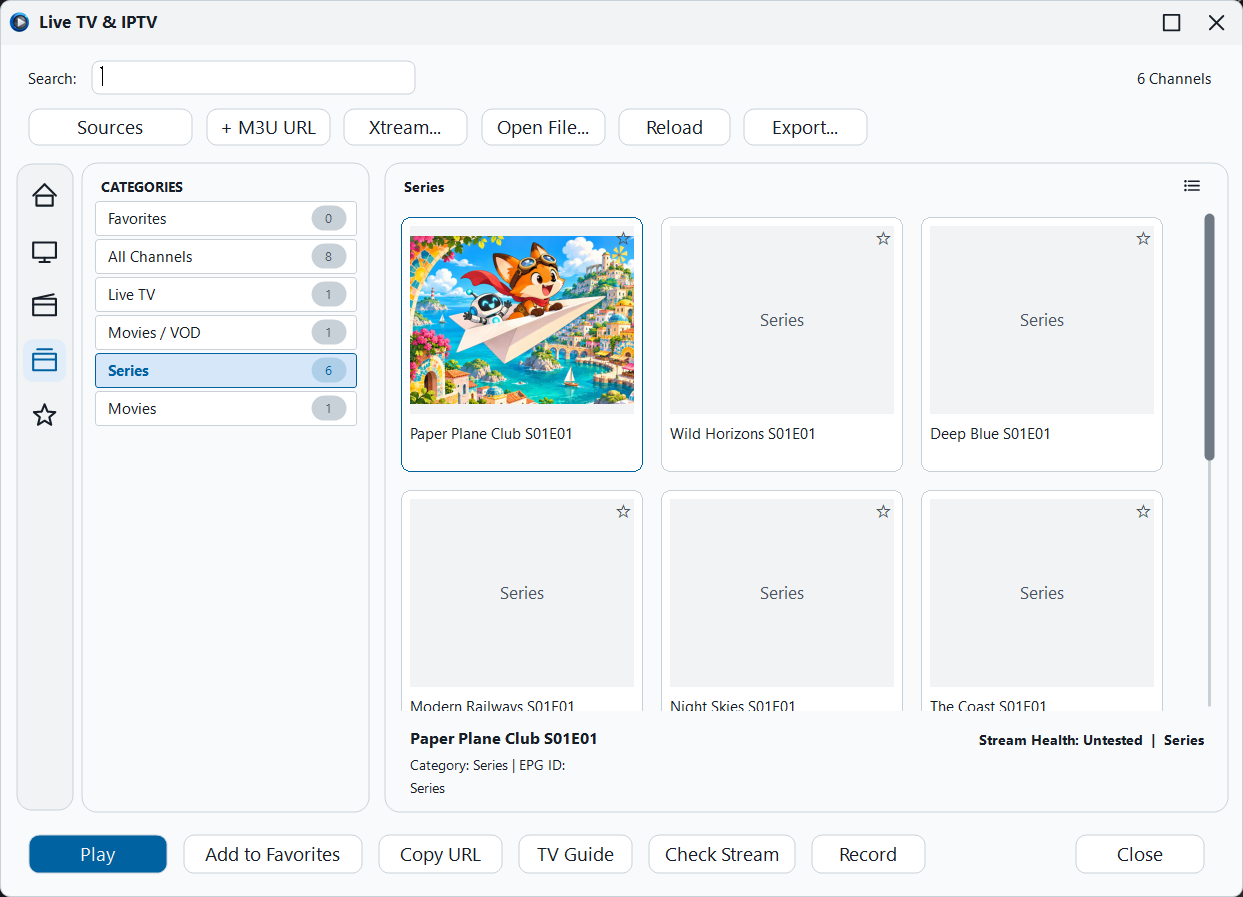
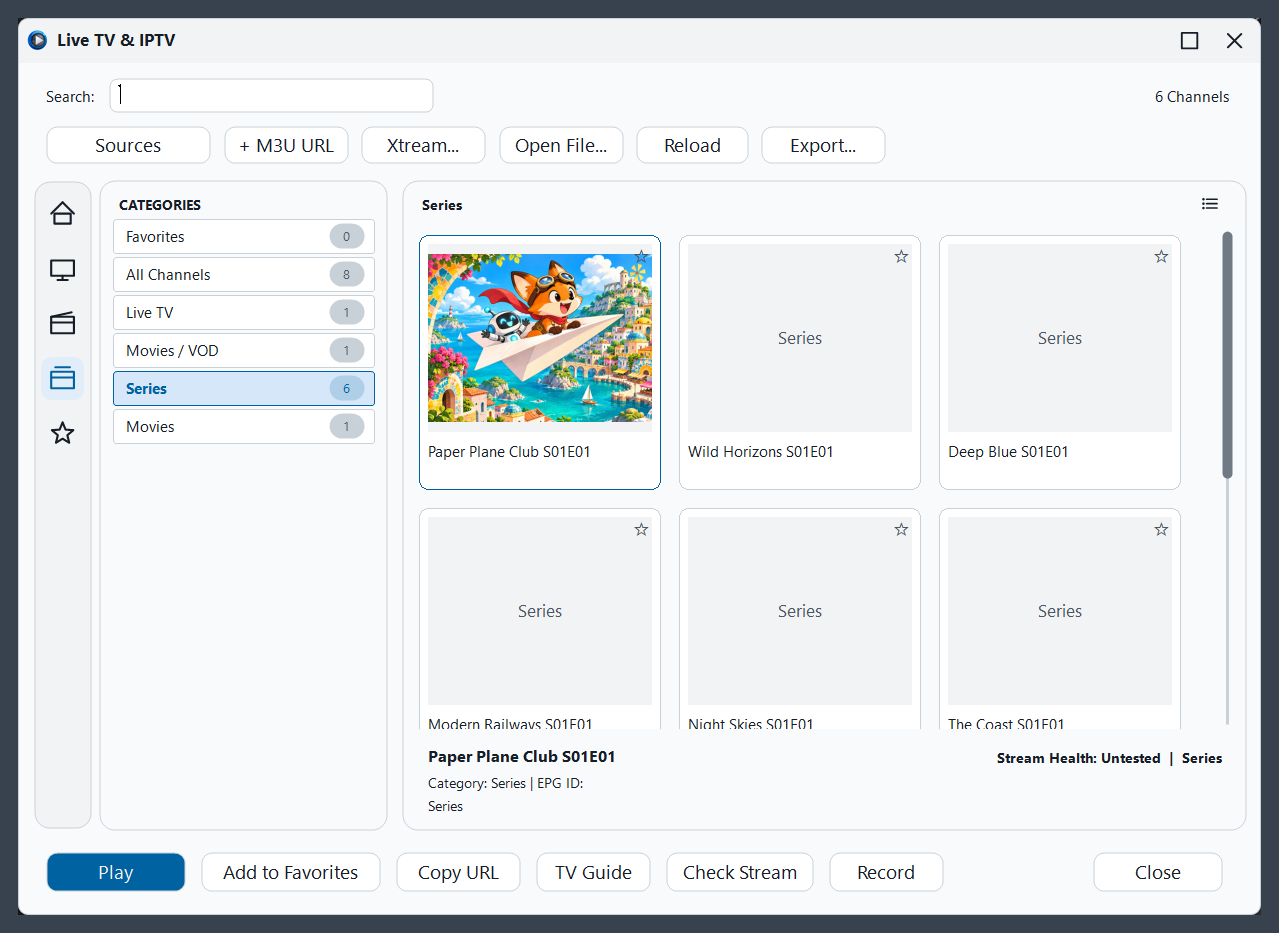
Restore Arabic badges and organize IPTV screenshots by language and theme

diff --git a/README_AR.md b/README_AR.md
@@ -1,15 +1,15 @@
 <p align="center"><img src="res/app_icon.png" width="120" alt="أيقونة VLC Modern"></p>
 <h1 align="center">VLC Modern</h1>
 <p align="center">مشغّل وسائط لويندوز مبني باستخدام Delphi وVCL وLibVLC.</p>
-<p align="center"><a href="README.md"><img alt="English" src="https://img.shields.io/badge/English-243850?style=for-the-badge&amp;logo=googletranslate&amp;logoColor=white"></a> &nbsp;·&nbsp; <a href="https://diagoo1.github.io/VLC-Modern/#screenshots"><strong>معرض الصور</strong></a> &nbsp;·&nbsp; <a href="https://diagoo1.github.io/VLC-Modern/#download"><strong>التحميل</strong></a></p>
+<p align="center"><a href="README.md"><img alt="English" src="https://img.shields.io/badge/English-243850?style=for-the-badge&amp;logo=googletranslate&amp;logoColor=white"></a>&nbsp;<a href="https://diagoo1.github.io/VLC-Modern/#screenshots"><img src="docs/screenshots/badge-ar-2.png" alt="معرض الصور" height="28"></a>&nbsp;<a href="https://diagoo1.github.io/VLC-Modern/#download"><img src="docs/screenshots/badge-ar-3.png" alt="التحميل" height="28"></a></p>
 
 <p align="center"><a href="https://github.com/Diagoo1/VLC-Modern/releases/tag/v1.0.12"><img src="https://img.shields.io/badge/Release-v1.0.12-1473E6" alt="Release: v1.0.12"></a> <img src="https://img.shields.io/badge/Platform-Windows%20x86-1473E6" alt="Platform: Windows x86"> <img src="https://img.shields.io/badge/Language-Delphi%2013-E62431" alt="Language: Delphi 13"> <img src="https://img.shields.io/badge/UI-VCL-6D4AFF" alt="UI: VCL"> <img src="https://img.shields.io/badge/Playback-LibVLC%203.0.20-E56A16" alt="Playback: LibVLC 3.0.20"> <img src="https://img.shields.io/badge/Theme-Dark-333333" alt="Theme: Dark"></p>
 
 <blockquote dir="rtl" align="right"><strong>الإصدار الرسمي v1.0.12.</strong> اختر EXE للتثبيت في Program Files أو ZIP محمول للتشغيل بعد فك الضغط.</blockquote>
 
-<p align="center"><a href="https://github.com/Diagoo1/VLC-Modern/releases/download/v1.0.12/VLC-Modern-v1.0.12-Setup-Full-Windows.exe"><strong>تثبيت Full &#183; EXE</strong></a> &nbsp;·&nbsp; <a href="https://github.com/Diagoo1/VLC-Modern/releases/download/v1.0.12/VLC-Modern-v1.0.12-Portable-Full-Windows.zip"><strong>محمول Full &#183; ZIP</strong></a></p>
+<p align="center"><a href="https://github.com/Diagoo1/VLC-Modern/releases/download/v1.0.12/VLC-Modern-v1.0.12-Setup-Full-Windows.exe"><img src="docs/screenshots/badge-ar-4.png" alt="تثبيت Full · EXE" height="28"></a>&nbsp;<a href="https://github.com/Diagoo1/VLC-Modern/releases/download/v1.0.12/VLC-Modern-v1.0.12-Portable-Full-Windows.zip"><img src="docs/screenshots/badge-ar-5.png" alt="محمول Full · ZIP" height="28"></a></p>
 
-<p align="center"><a href="https://github.com/Diagoo1/VLC-Modern/releases/download/v1.0.12/VLC-Modern-v1.0.12-Setup-Lite-Windows.exe"><strong>تثبيت Lite &#183; EXE</strong></a> &nbsp;·&nbsp; <a href="https://github.com/Diagoo1/VLC-Modern/releases/download/v1.0.12/VLC-Modern-v1.0.12-Portable-Lite-Windows.zip"><strong>محمول Lite &#183; ZIP</strong></a></p>
+<p align="center"><a href="https://github.com/Diagoo1/VLC-Modern/releases/download/v1.0.12/VLC-Modern-v1.0.12-Setup-Lite-Windows.exe"><img src="docs/screenshots/badge-ar-6.png" alt="تثبيت Lite · EXE" height="28"></a>&nbsp;<a href="https://github.com/Diagoo1/VLC-Modern/releases/download/v1.0.12/VLC-Modern-v1.0.12-Portable-Lite-Windows.zip"><img src="docs/screenshots/badge-ar-7.png" alt="محمول Lite · ZIP" height="28"></a></p>
 
 <p dir="rtl" align="right">نسخة Lite بتشغّل الملفات المحلية الشائعة فورًا. تقدر تنزّل مجموعة الإضافات الكاملة وFFmpeg أثناء التثبيت أو بعده. لو انقطع الاتصال، يكتمل تثبيت المشغّل وتقدر تعيد المحاولة من الإعدادات ← Components.</p>
 
@@ -20,7 +20,7 @@
   <li><strong>الإعدادات ← Playback Components</strong> تفتح نافذة تثبيت المكوّنات ومزامنتها. أعد تشغيل المشغّل بعد تثبيت أو تحديث إضافات LibVLC.</li>
 </ul>
 
-<p align="center"><a href="https://diagoo1.github.io/VLC-Modern/#download"><strong>تحميل لويندوز</strong></a> &nbsp;·&nbsp; <a href="https://github.com/Diagoo1/VLC-Modern/issues/new"><strong>الإبلاغ عن خطأ</strong></a> &nbsp;·&nbsp; <a href="https://github.com/Diagoo1/VLC-Modern/releases/tag/v1.0.12"><img alt="v1.0.12" src="https://img.shields.io/badge/v1.0.12-243850?style=for-the-badge&amp;logo=github&amp;logoColor=white"></a></p>
+<p align="center"><a href="https://diagoo1.github.io/VLC-Modern/#download"><img src="docs/screenshots/badge-ar-8.png" alt="تحميل لويندوز" height="28"></a>&nbsp;<a href="https://github.com/Diagoo1/VLC-Modern/issues/new"><img src="docs/screenshots/badge-ar-9.png" alt="الإبلاغ عن خطأ" height="28"></a>&nbsp;<a href="https://github.com/Diagoo1/VLC-Modern/releases/tag/v1.0.12"><img alt="v1.0.12" src="https://img.shields.io/badge/v1.0.12-243850?style=for-the-badge&amp;logo=github&amp;logoColor=white"></a></p>
 
 ## صور البرنامج
 
@@ -53,15 +53,15 @@
 
 ### البث وIPTV وتحويل الوسائط
 
-| واجهة IPTV بالعربية | واجهة IPTV بالإنجليزية |
+| الوضع الداكن | الوضع الفاتح |
 | --- | --- |
-| ![واجهة عربية](docs/screenshots/iptv-ar-grid-light.png) | ![واجهة إنجليزية](docs/screenshots/iptv-en-grid-light.png) |
+| [![الوضع الداكن](docs/screenshots/iptv-ar-grid-dark.png)](docs/screenshots/iptv-ar-grid-dark.png) | [![الوضع الفاتح](docs/screenshots/iptv-ar-grid-light.png)](docs/screenshots/iptv-ar-grid-light.png) |
 
 اضغط على أي لقطة لفتحها بالحجم الكامل.
 
-| البث التلفزيوني وIPTV | فتح بث شبكي | تحويل الوسائط |
-| --- | --- | --- |
-| [![إعداد مصادر البث التلفزيوني](docs/screenshots/iptv.png)](docs/screenshots/iptv.png) | [![فتح رابط بث شبكي](docs/screenshots/open-media.png)](docs/screenshots/open-media.png) | [![إعداد تحويل ملف وسائط](docs/screenshots/convert-stream.png)](docs/screenshots/convert-stream.png) |
+| 
+| --- | --- |
+| 
 | اتصل بمزوّد Xtream Codes أو Stalker / MAC، أو افتح رابط M3U أو ملفًا محليًا، أو جرّب عينات التشغيل. | افتح مصدر HTTP أو RTSP أو RTMP واضبط التخزين المؤقت للشبكة. تبويبات منفصلة للأقراص وأجهزة الالتقاط. | اختَر ملفًا أو رابطًا، وصيغة الإخراج، ومكان الحفظ. اللقطة بتوضح H.264 + AAC داخل MP4. |
 
 استخدمنا [IPTVnator](https://github.com/4gray/iptvnator) مرجعًا لتجربة إضافة مصادر IPTV. اللقطات اللي فوق من VLC Modern، وتقدر تشوف واجهة المشروع المرجعي ومميزاته على [موقع IPTVnator](https://4gray.github.io/iptvnator/).
